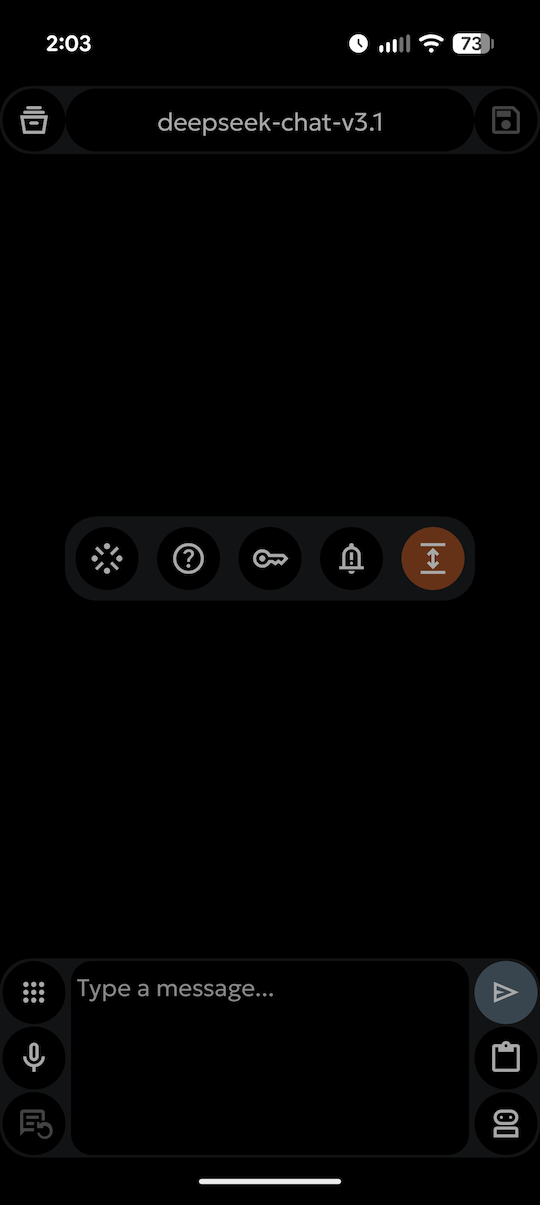
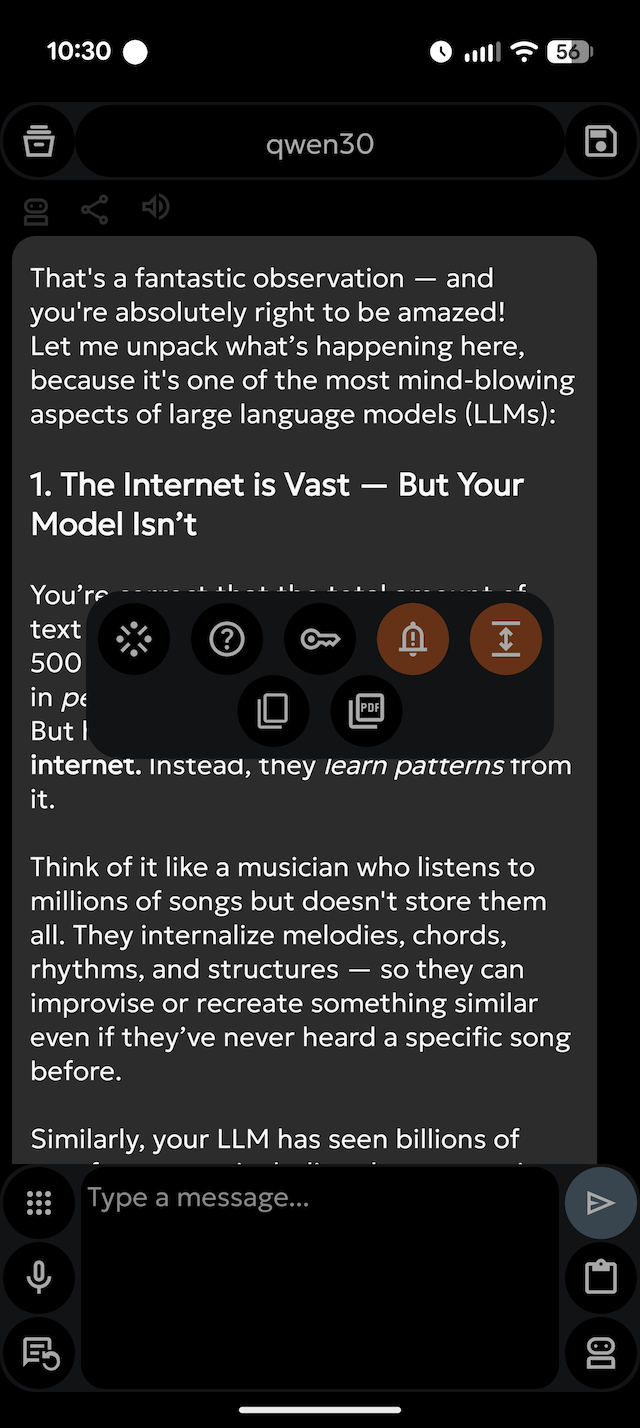
Prepare for release v1.3.3

diff --git a/app/src/main/java/io/github/stardomains3/oxproxion/ChatFragment.kt b/app/src/main/java/io/github/stardomains3/oxproxion/ChatFragment.kt
@@ -17,6 +17,8 @@ import android.os.Handler
 import android.os.Looper
 import android.provider.Settings
 import android.speech.RecognizerIntent
+import android.speech.tts.TextToSpeech
+import android.speech.tts.UtteranceProgressListener
 import android.util.Base64
 import android.util.Log
 import android.view.MotionEvent
@@ -72,7 +74,9 @@ import kotlinx.serialization.json.buildJsonArray
 class ChatFragment : Fragment(R.layout.fragment_chat) {
     private lateinit var speechLauncher: ActivityResultLauncher<Intent>
     private val REQUEST_RECORD_AUDIO_PERMISSION = 200
-
+    private lateinit var textToSpeech: TextToSpeech
+    private var isSpeaking = false
+    private var currentSpeakingPosition = -1
     private lateinit var helpButton: MaterialButton
     private var selectedImageBytes: ByteArray? = null
     private var selectedImageMime: String? = null
@@ -157,7 +161,21 @@ class ChatFragment : Fragment(R.layout.fragment_chat) {
             setSharedText(sharedText)
             arguments?.remove("shared_text") // To prevent re-processing
         }
-
+        textToSpeech = TextToSpeech(requireContext()) { status ->
+            if (status == TextToSpeech.SUCCESS) {
+                textToSpeech.setOnUtteranceProgressListener(object : UtteranceProgressListener() {
+                    override fun onStart(utteranceId: String?) {}
+                    override fun onDone(utteranceId: String?) {
+                        requireActivity().runOnUiThread { onSpeechFinished() }  // Run on main thread
+                    }
+                    override fun onError(utteranceId: String?) {
+                        requireActivity().runOnUiThread { onSpeechFinished() }  // Run on main thread
+                    }
+                })
+            } else {
+                Toast.makeText(requireContext(), "TTS failed", Toast.LENGTH_SHORT).show()
+            }
+        }
         val prism4j = Prism4j(ExampleGrammarLocator())
         // val theme = Prism4jThemeDefault.create()
         val theme = Prism4jThemeDarkula.create()
@@ -388,10 +406,11 @@ class ChatFragment : Fragment(R.layout.fragment_chat) {
     }
 
     private fun setupRecyclerView() {
-        chatAdapter = ChatAdapter(markwon,viewModel)
+        chatAdapter = ChatAdapter(markwon, viewModel) {  text, position ->
+            speakText(text, position)// Callback for TTS
+        }
         chatRecyclerView.apply {
             adapter = chatAdapter
-           // layoutManager = LinearLayoutManager(requireContext()).apply {
             layoutManager = NonScrollingOnFocusLayoutManager(requireContext()).apply {
                 stackFromEnd = true
             }
@@ -412,7 +431,13 @@ class ChatFragment : Fragment(R.layout.fragment_chat) {
             requestFocus()
         }
     }
-
+    override fun onDestroy() {
+        super.onDestroy()
+        if (::textToSpeech.isInitialized) {
+            textToSpeech.stop()
+            textToSpeech.shutdown()
+        }
+    }
     @SuppressLint("ClickableViewAccessibility")
     private fun setupClickListeners() {
         removeAttachmentButton.setOnClickListener {
@@ -818,6 +843,7 @@ class ChatFragment : Fragment(R.layout.fragment_chat) {
             true
         }
         speechButton.setOnClickListener {
+            chatEditText.hideKeyboard()
             if (ContextCompat.checkSelfPermission(requireContext(), Manifest.permission.RECORD_AUDIO) != PackageManager.PERMISSION_GRANTED) {
                 ActivityCompat.requestPermissions(requireActivity(), arrayOf(Manifest.permission.RECORD_AUDIO), REQUEST_RECORD_AUDIO_PERMISSION)
             } else {
@@ -870,7 +896,64 @@ class ChatFragment : Fragment(R.layout.fragment_chat) {
             speechButton.visibility = View.GONE
         }
     }
+    private fun speakText(text: String, position: Int) {
+        if (isSpeaking) {
+            if (position == currentSpeakingPosition) {
+                // Stop current speech
+                textToSpeech.stop()
+                onSpeechFinished()
+            } else {
+                // Stop old and start new
+                textToSpeech.stop()
+                onSpeechFinished()
+                // Start new
+                isSpeaking = true
+                currentSpeakingPosition = position
+                chatAdapter.updateTtsState(isSpeaking, currentSpeakingPosition)
+                // flashissue: Update icon directly if holder is attached, else notify
+                updateIconDirectlyOrNotify(position, R.drawable.ic_stop_circle)
+                val safeText = text.take(3900)
+                if (safeText.length < text.length) {
+                    Toast.makeText(requireContext(), "Text truncated for TTS (too long)", Toast.LENGTH_SHORT).show()
+                }
+                textToSpeech.speak(safeText, TextToSpeech.QUEUE_FLUSH, null, "tts_utterance")
+            }
+        } else {
+            // Start new
+            isSpeaking = true
+            currentSpeakingPosition = position
+            chatAdapter.updateTtsState(isSpeaking, currentSpeakingPosition)
+            // flashissue: Update icon directly if holder is attached, else notify
+            updateIconDirectlyOrNotify(position, R.drawable.ic_stop_circle)
+            val safeText = text.take(3900)
+            if (safeText.length < text.length) {
+                Toast.makeText(requireContext(), "Text truncated for TTS (too long)", Toast.LENGTH_SHORT).show()
+            }
+            textToSpeech.speak(safeText, TextToSpeech.QUEUE_FLUSH, null, "tts_utterance")
+        }
+    }
+    private fun updateIconDirectlyOrNotify(position: Int, iconRes: Int) {
+        val holder = chatAdapter.currentHolder
+        if (holder?.itemView?.isAttachedToWindow == true && holder.bindingAdapterPosition == position) {  // Changed here
+            holder.ttsButton.setImageResource(iconRes)
+        } else {
+            chatAdapter.notifyItemChanged(position)
+        }
+    }
 
+
+
+
+    private fun onSpeechFinished() {
+        isSpeaking = false
+        val pos = currentSpeakingPosition
+        currentSpeakingPosition = -1
+        chatAdapter.updateTtsState(isSpeaking, currentSpeakingPosition)
+        if (pos != -1) {
+            // flashissue: Update icon directly if holder is attached, else notify
+            updateIconDirectlyOrNotify(pos, R.drawable.ic_volume_up)
+        }
+    }
     private fun updateButtonVisibility() {
         // If both buttons are already gone (extended OFF), do nothing
         if (clearButton.isGone && speechButton.isGone) return

diff --git a/app/src/main/java/io/github/stardomains3/oxproxion/ChatAdapter.kt b/app/src/main/java/io/github/stardomains3/oxproxion/ChatAdapter.kt
@@ -33,8 +33,12 @@ import kotlinx.serialization.json.jsonPrimitive
 
 class ChatAdapter(
     private val markwon: Markwon,
-    private val viewModel: ChatViewModel
+    private val viewModel: ChatViewModel,
+    private val onSpeakText: (String, Int) -> Unit  // Added for TTS
 ) : RecyclerView.Adapter<RecyclerView.ViewHolder>() {
+    var isSpeaking = false
+    var currentSpeakingPosition = -1
+    var currentHolder: AssistantViewHolder? = null
 
     private fun getMessageText(content: JsonElement): String {
         if (content is JsonPrimitive) return content.content
@@ -53,6 +57,11 @@ class ChatAdapter(
             }
         }
         return null
+    }
+
+    fun updateTtsState(speaking: Boolean, position: Int) {
+        isSpeaking = speaking
+        currentSpeakingPosition = position
     }
 
     private val messages = mutableListOf<FlexibleMessage>()
@@ -90,7 +99,6 @@ class ChatAdapter(
         }
     }
 
-
     override fun getItemViewType(position: Int): Int {
         val message = messages[position]
         return when (message.role) {
@@ -113,7 +121,7 @@ class ChatAdapter(
             }
             else -> { // Both AI and Thinking use the same base layout
                 val view = inflater.inflate(R.layout.item_message_ai, parent, false)
-                AssistantViewHolder(view, markwon)
+                AssistantViewHolder(view, markwon, onSpeakText)
             }
         }
     }
@@ -124,7 +132,7 @@ class ChatAdapter(
 
         when (holder) {
             is UserViewHolder -> holder.bind(message)
-            is AssistantViewHolder -> holder.bind(message,position)
+            is AssistantViewHolder -> holder.bind(message, position, isSpeaking, currentSpeakingPosition)
         }
     }
 
@@ -135,6 +143,7 @@ class ChatAdapter(
         private val messageTextView: TextView = itemView.findViewById(R.id.messageTextView)
         private val copyButtonuser: ImageButton = itemView.findViewById(R.id.copyButtonuser)
         private val imageView: ImageView = itemView.findViewById(R.id.userImageView)
+
         fun bind(message: FlexibleMessage) {
             messageTextView.text = getMessageText(message.content)
 
@@ -158,14 +167,22 @@ class ChatAdapter(
     }
 
     // ViewHolder for AI and "Thinking" messages
-    inner class AssistantViewHolder(itemView: View, private val markwon: Markwon) : RecyclerView.ViewHolder(itemView) {
+    inner class AssistantViewHolder(
+        itemView: View,
+        private val markwon: Markwon,
+        private val onSpeakText: (String, Int) -> Unit
+    ) : RecyclerView.ViewHolder(itemView) {
         private val messageTextView: TextView = itemView.findViewById(R.id.messageTextView)
         private val shareButton: ImageButton = itemView.findViewById(R.id.shareButton)
         private val copyButton: ImageButton = itemView.findViewById(R.id.copyButton)
+         val ttsButton: ImageButton = itemView.findViewById(R.id.ttsButton)  // Added for TTS
         private val generatedImageView: ImageView = itemView.findViewById(R.id.generatedImageView)
         val messageContainer: ConstraintLayout = itemView.findViewById(R.id.messageContainer)
 
-        fun bind(message: FlexibleMessage, position: Int) {
+        fun bind(message: FlexibleMessage, position: Int, isSpeaking: Boolean, currentPosition: Int) {
+            if (position == currentPosition) {
+                currentHolder = this
+            }
             val text = getMessageText(message.content)
             markwon.setMarkdown(messageTextView, text)
             messageTextView.movementMethod = LinkMovementMethod.getInstance()
@@ -173,8 +190,7 @@ class ChatAdapter(
             val isError = message.role == "assistant" && text.startsWith("**Error:**")
             if (isError) {
                 messageContainer.setBackgroundResource(R.drawable.bg_error_message)
-            }
-            else{
+            } else {
                 messageContainer.setBackgroundResource(R.drawable.bg_ai_message)
             }
             if (isThinking) {
@@ -211,6 +227,23 @@ class ChatAdapter(
                 generatedImageView.visibility = View.GONE
             }
             val rawMarkdown = text
+
+            // Update TTS button icon based on state
+            val iconRes = if (isSpeaking && position == currentPosition) {
+                R.drawable.ic_stop_circle  // Your stop icon
+            } else {
+                R.drawable.ic_volume_up  // Your play/speaker icon
+            }
+            ttsButton.setImageResource(iconRes)
+            ttsButton.setOnClickListener {
+                val textToSpeak = messageTextView.text.toString()
+                if (textToSpeak.isNotEmpty()) {
+                    onSpeakText(textToSpeak, position)
+                } else {
+                    Toast.makeText(itemView.context, "No text to speak", Toast.LENGTH_SHORT).show()
+                }
+            }
+
             // Special handling for the copy button
             if (text == "thinking...") {
                 // Hide the copy button when the AI is thinking
@@ -258,10 +291,10 @@ class ChatAdapter(
                     }
                     itemView.context.startActivity(Intent.createChooser(shareIntent, "Share message via"))
                 }
-
             }
         }
     }
+
     override fun onViewRecycled(holder: RecyclerView.ViewHolder) {
         super.onViewRecycled(holder)
         if (holder is AssistantViewHolder) {
@@ -271,5 +304,4 @@ class ChatAdapter(
             holder.messageContainer.setBackgroundResource(R.drawable.bg_ai_message)
         }
     }
-
 }

diff --git a/app/src/main/java/io/github/stardomains3/oxproxion/HelpFragment.kt b/app/src/main/java/io/github/stardomains3/oxproxion/HelpFragment.kt
@@ -103,6 +103,7 @@ class HelpFragment : Fragment(R.layout.fragment_help) {
             *   **Copy AI Response**: Tap the **robot icon** to copy the AI's message.
             *   **Copy User Message**: Tap the **user icon** to copy your message.
             *   **Share AI Response**: Tap the **share icon** to send the AI's text to other apps.
+            *   **Speak AI Response**: Tap the **speaker icon** to speak out loud the AI's response.
             *   **Create PDF of Response**: **Long-press** the **robot icon** to save just that response as a PDF in your device's Downloads folder.
 
             ### Sending Prompts
